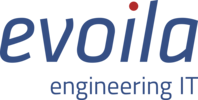
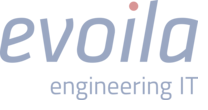
Design changes

diff --git a/src/app/components/service-details/service-details.component.html b/src/app/components/service-details/service-details.component.html
@@ -1,95 +1,127 @@
-<clr-main-container>
-<div class="clr-row">
-  <h1>Service Details of {{this.service.name}}</h1>
-</div>
-<div class="clr-row">
-  <div class="clr-row-8">
-    <table class="table table-vertical">
-      <tbody>
-      <tr>
-        <th>Name:</th>
-        <td>{{this.service.name}}</td>
-      </tr>
-      <tr>
-        <th>Type:</th>
-        <td>{{this.service.type}}</td>
-      </tr>
-      <tr>
-        <th>Status:</th>
-        <td>{{this.service.status}}</td>
-      </tr>
-      </tbody>
-    </table>
-  </div>
+<app-services></app-services>
+<clr-modal [(clrModalOpen)]="mainModelIsOpen" [clrModalSize]="'xl'" style="width: 900px;">
+  
+    <h2 class="modal-title">Service Details of {{this.service.name}}</h2>
+    <div class="modal-body" >
+      <div class="content-container" >
 
-  <div class="clr-row-2 clr-offset-2">
-    <h2></h2>
-    <button (click)="wizard.open();this.open()" class="btn btn-primary">
-      <clr-icon shape="note"></clr-icon>
-      View YAML
-    </button>
-  </div>
+        <div class="content-area">
+          
+          <div class="clr-row">
+              <table class="table table-vertical">
+                <tbody>
+                  <tr>
+                    <th>Name:</th>
+                    <td>{{this.service.name}}</td>
+                  </tr>
+                  <tr>
+                    <th>Type:</th>
+                    <td>{{this.service.type}}</td>
+                  </tr>
+                  <tr>
+                    <th>Status:</th>
+                    <td>{{this.service.status}}</td>
+                  </tr>
+                </tbody>
+              </table>
+         
 
-  <div class="clr-row-1">
-    <h2></h2>
-    <button (click)="openDeleteModal = true" class="btn btn-danger">
-      <clr-icon shape="note"></clr-icon>
-      DELETE
-    </button>
-  </div>
-</div>
 
-<div class="clr-row">
-  <div *ngFor="let actionGroups of service.actionGroups">
-    <h2>{{actionGroups.name}}</h2>
-    <button *ngFor="let action of actionGroups.actions" class="btn btn-primary" (click)="displayAction(action)">
-      <clr-icon shape="note"></clr-icon>
-      {{ action.name }}
-    </button>
-  </div>
-</div>
 
-  <clr-wizard #wizard>
-		<clr-wizard-title>{{ this.service.name }}</clr-wizard-title>
 
-		<clr-wizard-button [type]="'cancel'">Cancel</clr-wizard-button>
-		<clr-wizard-button [type]="'previous'">Back</clr-wizard-button>
-		<clr-wizard-button [type]="'next'">Next</clr-wizard-button>
-<!--		<clr-wizard-button [type]="'finish'">Done</clr-wizard-button>-->
+          </div>
 
-		<clr-wizard-page #pageTwo>
-		  <ng-template clrPageTitle>View YAML</ng-template>
-		  <ng-template clrPageNavTitle>YAML</ng-template>
-		  <form clrForm clrLayout="horizontal" #formPageOne="ngForm">
-			<div
-			#editor
-			class="app-ace-editor clr-form-control"
-			style="width: 720px;height: 700px;"
-			></div>
-			</form>
-		</clr-wizard-page>
-	</clr-wizard>
+          <div class="clr-row">
 
-  <clr-modal [(clrModalOpen)]="openModal">
-    <h3 class="modal-title">{{ service.name }}</h3>
-    <div class="modal-body">
-      <p>Type: {{ service.type }}</p>
-      <p>Action: {{ selectedAction.name }}</p>
+            <clr-wizard #wizard>
+              <clr-wizard-title>{{ this.service.name }}</clr-wizard-title>
+
+              <clr-wizard-button [type]="'cancel'">Cancel</clr-wizard-button>
+              <clr-wizard-button [type]="'previous'">Back</clr-wizard-button>
+              <clr-wizard-button [type]="'next'">Next</clr-wizard-button>
+              <!--		<clr-wizard-button [type]="'finish'">Done</clr-wizard-button>-->
+
+              <clr-wizard-page #pageTwo>
+                <ng-template clrPageTitle>View YAML</ng-template>
+                <ng-template clrPageNavTitle>YAML</ng-template>
+                <form clrForm clrLayout="horizontal" #formPageOne="ngForm">
+                  <div #editor class="app-ace-editor clr-form-control" style="width: 720px;height: 700px;"></div>
+                </form>
+              </clr-wizard-page>
+            </clr-wizard>
+
+            <clr-modal [(clrModalOpen)]="openModal">
+              <h3 class="modal-title">{{ service.name }}</h3>
+              <div class="modal-body">
+                <p>Type: {{ service.type }}</p>
+                <p>Action: {{ selectedAction.name }}</p>
+              </div>
+              <div class="modal-footer">
+                <button type="button" class="btn btn-primary" (click)="openModal = false">Execute
+                  {{ selectedAction.name }}</button>
+              </div>
+            </clr-modal>
+
+            <clr-modal [(clrModalOpen)]="openDeleteModal">
+              <h3 class="modal-title">Delete {{service.name}}</h3>
+              <div class="modal-body">
+                <p>Are you sure?</p>
+              </div>
+              <div class="modal-footer">
+                <button type="button" class="btn btn-outline" (click)="openDeleteModal = false">Cancel</button>
+                <button type="button" class="btn btn-danger" (click)="deleteService()">DELETE</button>
+              </div>
+            </clr-modal>
+
+            <app-action-modal></app-action-modal>
+          </div>
+
+        </div>
+
+
+
+        <div class="content-area" style="padding: 0px;">
+          <nav class="sidenav" style="float: right; border: 0px;">
+            <h4 style="margin-bottom: -10px;">Service Actions</h4>
+            <section class="sidenav-content">
+              <section class="nav-group collapsible">
+                <label>Common</label>
+                <ul class="nav-list">
+                  <li (click)="wizard.open();this.open()">
+                    <a>View Yaml</a>
+                  </li>
+                </ul>
+              </section>
+
+              <section class="nav-group collapsible" *ngFor="let actionGroups of service.actionGroups">
+                <label>{{actionGroups.name}}</label>
+                <ul class="nav-list">
+                  <li *ngFor="let action of actionGroups.actions" (click)="displayAction(action)">
+                    <a>{{ action.name }}</a>
+                  </li>
+                </ul>
+              </section>
+
+              <section class="nav-group collapsible">
+                <label>Danger zone</label>
+                <ul class="nav-list">
+                  <li (click)="openDeleteModal = true">
+                    <a>Delete service</a>
+                  </li>
+                </ul>
+              </section>
+            </section>
+
+
+          </nav>
+        </div>
+
+      </div>
     </div>
     <div class="modal-footer">
-      <button type="button" class="btn btn-primary" (click)="openModal = false">Execute {{ selectedAction.name }}</button>
+      <button type="button" class="btn btn-outline" (click)="openModal = false">Cancel</button>
     </div>
-  </clr-modal>
 
-  <clr-modal [(clrModalOpen)]="openDeleteModal">
-    <h3 class="modal-title">Delete {{service.name}}</h3>
-    <div class="modal-body">
-      <p>Are you sure?</p>
-    </div>
-    <div class="modal-footer">
-      <button type="button" class="btn btn-outline" (click)="openDeleteModal = false">Cancel</button>
-      <button type="button" class="btn btn-danger" (click)="deleteService()">DELETE</button>
-    </div>
-  </clr-modal>
 
-  <app-action-modal></app-action-modal>
+
+</clr-modal>

diff --git a/src/app/modules/main/main-routing.module.ts b/src/app/modules/main/main-routing.module.ts
@@ -16,8 +16,8 @@ const routes: Routes = [
     children: [
       { path: '', redirectTo: 'services', pathMatch: 'full' },
       { path: 'servicestore', component: ServicestoreComponent },
-      { path: 'services', component: ServicesComponent },
       { path: 'service-details/:serviceType/:serivceName', component: ServiceDetailsComponent},
+      { path: 'services', component: ServicesComponent },
       { path: 'about', component: AboutComponent },
       { path: '**', component: PageNotFoundComponent },
     ]

diff --git a/src/app/components/layout/layout.component.html b/src/app/components/layout/layout.component.html
@@ -1,3 +1,5 @@
+
+
 <clr-main-container>
   <clr-header class="header-6">
     <div class="branding">
@@ -31,10 +33,8 @@
   </app-notification-banner>
 
   <div class="content-container">
-    <main class="content-area">
+    <main class="content-area branding-img"  style="padding: 0px;">
       <router-outlet></router-outlet>
     </main>
   </div>
 </clr-main-container>
-
-<app-branding></app-branding>

diff --git a/src/app/components/service-details/service-details.component.ts b/src/app/components/service-details/service-details.component.ts
@@ -40,6 +40,7 @@ export class ServiceDetailsComponent implements OnInit, AfterViewInit, OnDestroy
   selectedAction: DtosServiceInstanceActionDto;
   serviceName: string;
   serviceType: string;
+  mainModelIsOpen = true;
 
   constructor(
     private router: Router,

diff --git a/src/app/components/branding/branding/branding.component.scss b/src/app/components/branding/branding/branding.component.scss
@@ -1,8 +1,10 @@
 .branding-img {
   position: fixed;
-
+  float: right;
+  background-image: url("../../../../assets/img/evoila_engineering_it.png");
   opacity: 0.5;
 
+  background-size: 132px 66px;
   width: 132px;
   height: 66px;
 

diff --git a/src/app/components/layout/layout.component.scss b/src/app/components/layout/layout.component.scss
@@ -1,0 +1,8 @@
+.branding-img {
+    background-image: url("../../../assets/img/evoila_engineering_it.png");  
+    background-position: right bottom;
+    background-repeat: no-repeat;
+    background-size: 132px 66px;
+}
+  
+  

diff --git a/src/app/components/branding/branding/branding.component.html b/src/app/components/branding/branding/branding.component.html
@@ -1,4 +1,3 @@
-<div>
-    <img class="branding-img"
-         src="assets/img/evoila_engineering_it.png"/>
+<div class="branding-img">
+  
 </div>
